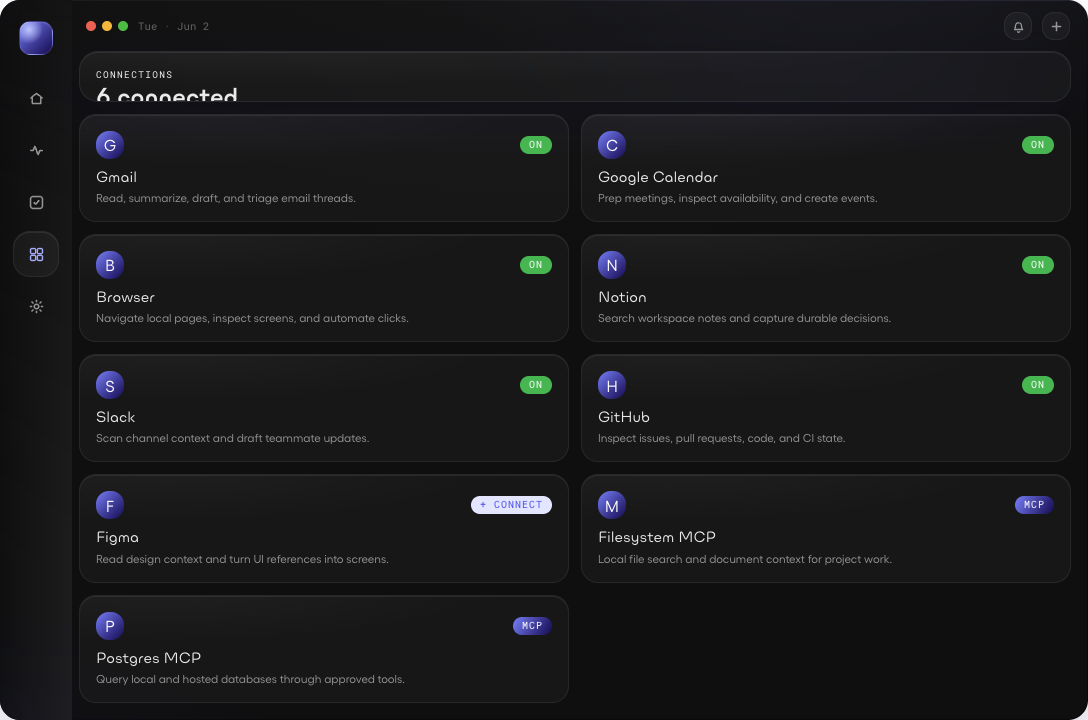
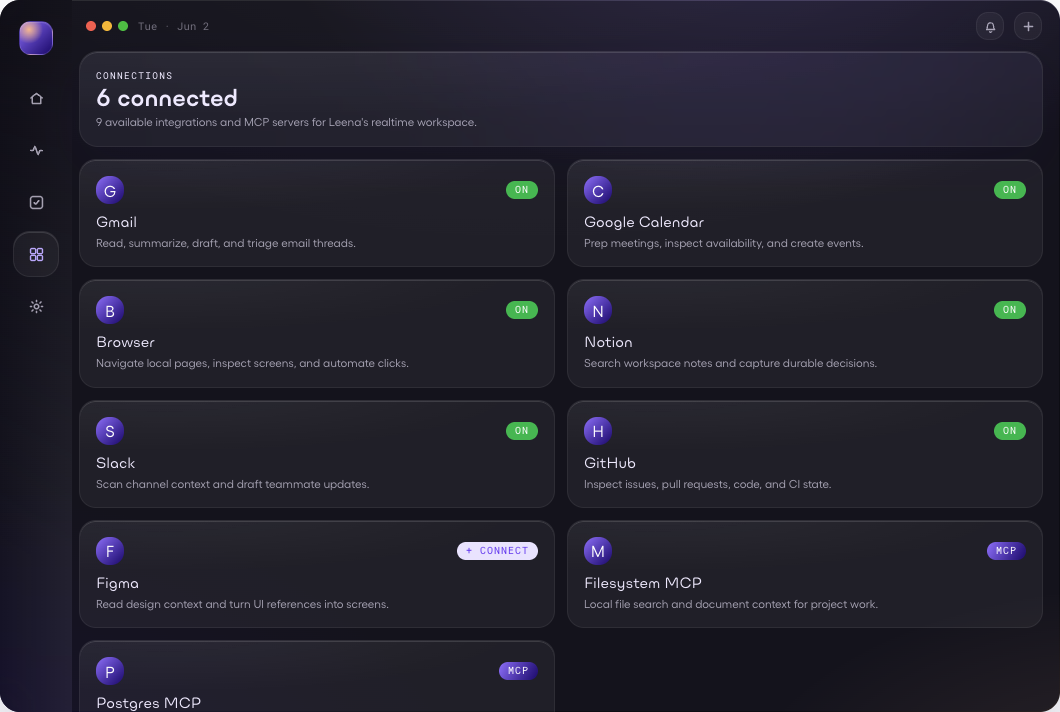
Fix Wave 06 integrations header clipping

diff --git a/test/integrations-screen.test.js b/test/integrations-screen.test.js
@@ -1,4 +1,5 @@
 import assert from "node:assert/strict";
+import { readFileSync } from "node:fs";
 import test from "node:test";
 
 import {
@@ -6,8 +7,18 @@ import {
   renderIntegrations,
 } from "../src/renderer/screens/integrations.js";
 
+const leenaCss = readFileSync(new URL("../src/renderer/leena.css", import.meta.url), "utf8");
+
 function countMatches(source, pattern) {
   return source.match(pattern)?.length ?? 0;
+}
+
+function extractRuleBody(source, selector) {
+  const escapedSelector = selector.replace(/[.*+?^${}()|[\]\\]/g, "\\$&");
+  const match = source.match(new RegExp(`${escapedSelector}\\s*\\{([^}]*)\\}`));
+
+  assert.ok(match, `${selector} rule exists`);
+  return match[1];
 }
 
 test("MOCK_INTEGRATIONS_DATA defines 9 valid integration tiles", () => {
@@ -55,4 +66,15 @@ test("renderIntegrations maps integration statuses to the required chip classes"
   assert.equal(countMatches(html, /class="chip chip--green">On<\/span>/g), 6);
   assert.equal(countMatches(html, /class="chip chip--accent">\+ Connect<\/span>/g), 1);
   assert.equal(countMatches(html, /class="chip chip--mcp">MCP<\/span>/g), 2);
+});
+
+test("integrations header CSS protects approval-gate stats from clipping", () => {
+  const headerBody = extractRuleBody(leenaCss, ".integrations-header");
+  const copyBody = extractRuleBody(leenaCss, ".integrations-header__copy");
+
+  assert.match(headerBody, /display:\s*flex/);
+  assert.match(headerBody, /min-height:\s*94px/);
+  assert.match(headerBody, /align-items:\s*center/);
+  assert.match(headerBody, /overflow:\s*visible/);
+  assert.match(copyBody, /padding-block:\s*2px/);
 });

diff --git a/src/renderer/leena.css b/src/renderer/leena.css
@@ -1239,6 +1239,7 @@
   display: grid;
   gap: 4px;
   min-width: 0;
+  padding-block: 2px;
 }
 
 .home-card,
@@ -1305,7 +1306,11 @@
 }
 
 .integrations-header {
+  display: flex;
+  min-height: 94px;
+  align-items: center;
   padding: var(--pad);
+  overflow: visible;
 }
 
 .integrations-grid {

diff --git a/tasks/LEARNINGS.md b/tasks/LEARNINGS.md
@@ -59,6 +59,13 @@
 - **Rule added?:** yes — Refine composition before ornament.
 - **WAL ref:** tasks/.wal/wal.jsonl
 
+### Fix — Wave 06 — 021 — Integrations header clipping
+- **Symptom:** Reviewer found the committed taste-repair Integrations artifact clipped the `6 connected` approval-gate stat and hid the description line.
+- **Root cause:** The compact glass header reused `.panel-glass` hidden overflow with only token padding, which left the three-line header without a stable visual height after the shell density repair.
+- **Fix:** Made `.integrations-header` a non-clipping centered flex surface with a stable `min-height`, added copy padding in `src/renderer/leena.css`, added CSS regression coverage in `test/integrations-screen.test.js`, and refreshed `tasks/artifacts/wave-06-taste-repair-integrations.png`.
+- **Rule added?:** no.
+- **WAL ref:** tasks/.wal/wal.jsonl
+
 ### Fix — Wave 06 — 021 — Renderer design-token audit cleanup
 - **Symptom:** The Phase 0 design audit found hardcoded renderer colors and non-token radius/font fallbacks in legacy runtime CSS, and the first radius audit draft skipped `leena.css`.
 - **Root cause:** Wave 01-05 token work covered the new shell CSS first, but legacy `styles.css`, `renderer.js` canvas colors, and Command Center fallbacks still carried direct hex/radius values.

diff --git a/tasks/FILE-CLAIMS.md b/tasks/FILE-CLAIMS.md
@@ -23,6 +23,7 @@
 
 - 2026-06-02T12:36:46Z — Released Wave 06 taste-repair claims for task `021`: installed GitHub taste skill, rebuilt Home command surface, slimmed shell chrome, refined Command Center material, fixed Settings identity grid, refreshed taste-repair screenshots, and updated tests/bookkeeping.
 - 2026-06-02T12:41:00Z — Released Wave 06 visual-repair claims for task `021`: desktop shell scale, Command Center dimensions, Integrations header copy, test expectations, refreshed approval screenshots, and task bookkeeping files.
+- 2026-06-02T13:10:15Z — Released Wave 06 reviewer-fix claims for task `021`: fixed Integrations header clipping, added CSS regression coverage, refreshed `wave-06-taste-repair-integrations.png`, and updated task bookkeeping.
 - 2026-06-02T04:04:10Z — Opened Wave 06 claims for task `021`: Phase 0 shell, screen, component, integration/audit test, and task bookkeeping files.
 - 2026-06-02T04:12:05Z — Extended Wave 06 task `021` claims to `src/renderer/styles.css` and `src/renderer/renderer.js` after the Phase 0 hardcoded-hex audit reached legacy runtime renderer files.
 - 2026-06-02T04:27:07Z — Extended Wave 06 task `021` claim to `test/leena-css-tokens.test.js` after tokenized circular radii required updating the existing token-foundation regression expectations.

diff --git a/tasks/TASKLOG.md b/tasks/TASKLOG.md
@@ -138,3 +138,4 @@ _(wave execution entries appended below as the build runs)_
 - Rebuilt Home around a single nested command surface containing greeting, orb, and chat input; converted the shell sidebar into a slim icon rail; removed visible title chrome; softened Command Center material; made recent/up-next quiet context sections; and fixed the Settings identity grid after the screenshot sweep exposed an awkward Edit-button row.
 - Refreshed taste-repair artifacts: `tasks/artifacts/wave-06-taste-repair-home.png`, `activity.png`, `tasks.png`, `integrations.png`, `settings.png`, and `command-center-demo.png`.
 - Gates passed after follow-up: `npm run check`, focused home/token/shell/command-center tests, full `node --test` (202 tests), `node --check`, `git diff --check`, Electron/Playwright five-screen sweep, and final `npm test` (202 tests).
+- Reviewer gate found one blocker after follow-up: `tasks/artifacts/wave-06-taste-repair-integrations.png` clipped the `6 connected` stat. Fixed the Integrations header min-height/overflow in `src/renderer/leena.css`, added CSS regression coverage in `test/integrations-screen.test.js`, refreshed the Integrations artifact, and re-ran gates: `npm run check`, focused integration/CSS tests, full `node --test` (203 tests), `node --check`, and `git diff --check`.